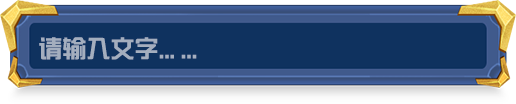
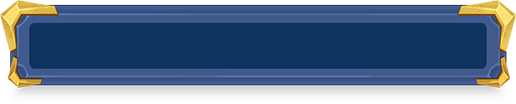
picimg  16:23

Changed region(s): [[0.062, 0.3462, 0.4031, 0.5769]]

diff --git a/src/main/webapp/WEB-INF/index0.html b/src/main/webapp/WEB-INF/index0.html
@@ -21,7 +21,7 @@
 		</div>
 		<!-- 背景音乐 -->
 		<div class="item_btn">
-			<li><img id="item1" src="../img/music.png"></li>
+			<span><img id="item1" src="../img/music.png"></span>
 		</div> 
 		<!-- 座位 -->
 		<div class="player_btn">	
@@ -59,7 +59,7 @@
 		</div>
 		<div class="chatRoom" id="chatRoom"></div>
 		<div class="ele">
-			<input id="sendTxt_0" type="text" />
+			<input id="sendTxt_0" type="text" placeholder="请输入文字..."/>
 			<button id="sendBtn_0">
 				<img src="../img/sendBtn.png">
 			</button>
@@ -133,13 +133,11 @@
 		var head3 = document.getElementById("headImg3");
 		var head4 = document.getElementById("headImg4");
 		
-		$(function(){
-			var sit1 = $('.sit1'),
-				
-				sit1.click(function(){
-					alert('1')
-				})
-		})()
+		var wanjia1 = document.getElementById("player1");
+		wanjia1.onclick = function() {
+			var userId0 = wanjia1.value;
+			
+		}
 
 		var wanjia2 = document.getElementById("player2");
 		wanjia2.onclick = function() {
@@ -259,7 +257,7 @@
 				//b.userStatus == '0' && b.userStatus == '1'
 				if (1 == 1) {
 					alert("准备发送跳转链接2222");
-					 
+					  
 					document.location = "http://thdd.apexgame.cn/tetris/skip/indexsend?userStauts="
 							+ b.userStatus;
 				}
@@ -274,14 +272,15 @@
 
 		//接收房间所有信息，展示用户信息
 		function showMessage(str) {
+			var wanjia1 = document.getElementById("player1");
 			var div_3 = document.createElement("div");
 			div_3.style.fontSize = "20px";
 			div_3.style.paddingRight = "20px";
 			div_3.style.wordBreak = "break-all"
 			div_3.style.marginTop = "10px";
 			var ss = 7;
-			div_3.innerHTML = "<img src='../img/icon4.png' style='width: 30px;height:30px;display: block;margin-bottom: 5px'>"
-					+ "&nbsp;&nbsp;&nbsp;&nbsp;" + str + '<br />';
+			div_3.innerHTML = "<img id="img1" src="headImg1" style='width: 30px;height:30px;border-radius=50%;display: block;margin-bottom: 5px'>"
+					+ "&nbsp;&nbsp;&nbsp;&nbsp;" + str + '<br/>';
 			div_2.appendChild(div_3)
 			div_2.scrollTop = div_2.scrollHeight;
 		}

diff --git a/src/main/webapp/css/hall.css b/src/main/webapp/css/hall.css
@@ -39,7 +39,7 @@ html,body{
 	left: 5%;
 }
 .player_btn ul li:nth-child(2),.player_btn ul li:nth-child(3),.player_btn ul li:nth-child(4){
-	background: url("../img/play/none.png") no-repeat center center;
+	background: url("../img/play/sit.png") no-repeat center center;
 	background-size: 100% 100%;
 }
 .sit1,.sit2,.sit3,.sit4{
@@ -49,7 +49,7 @@ html,body{
 .sit1{	
 	top: 10%;
 	left: -2%;
-	background: url("../img/play/host.png") no-repeat center center;
+	background: url("../img/play/hostsit1.png") no-repeat center center;
 	background-size: 100% 100%;	
 }
 .sit2{	
@@ -135,6 +135,8 @@ html,body{
 }
 .icon-player ul li img{
     width: 100%;
+    display: block;
+    border-radius: 50%;
 }
 .chatRoom{
     position: absolute;
@@ -180,7 +182,7 @@ html,body{
     /*height: 23%;*/
     /*bottom: 5%;*/
     margin-right: 1%;
-    background: url(../img/layer3/Shape15.png) repeat-y;
+    background: url(../img/play/inp.png) repeat-y;
     background-size: 100% 100%;
     font-family: Arial;
     /*font-size: 66px;*/
